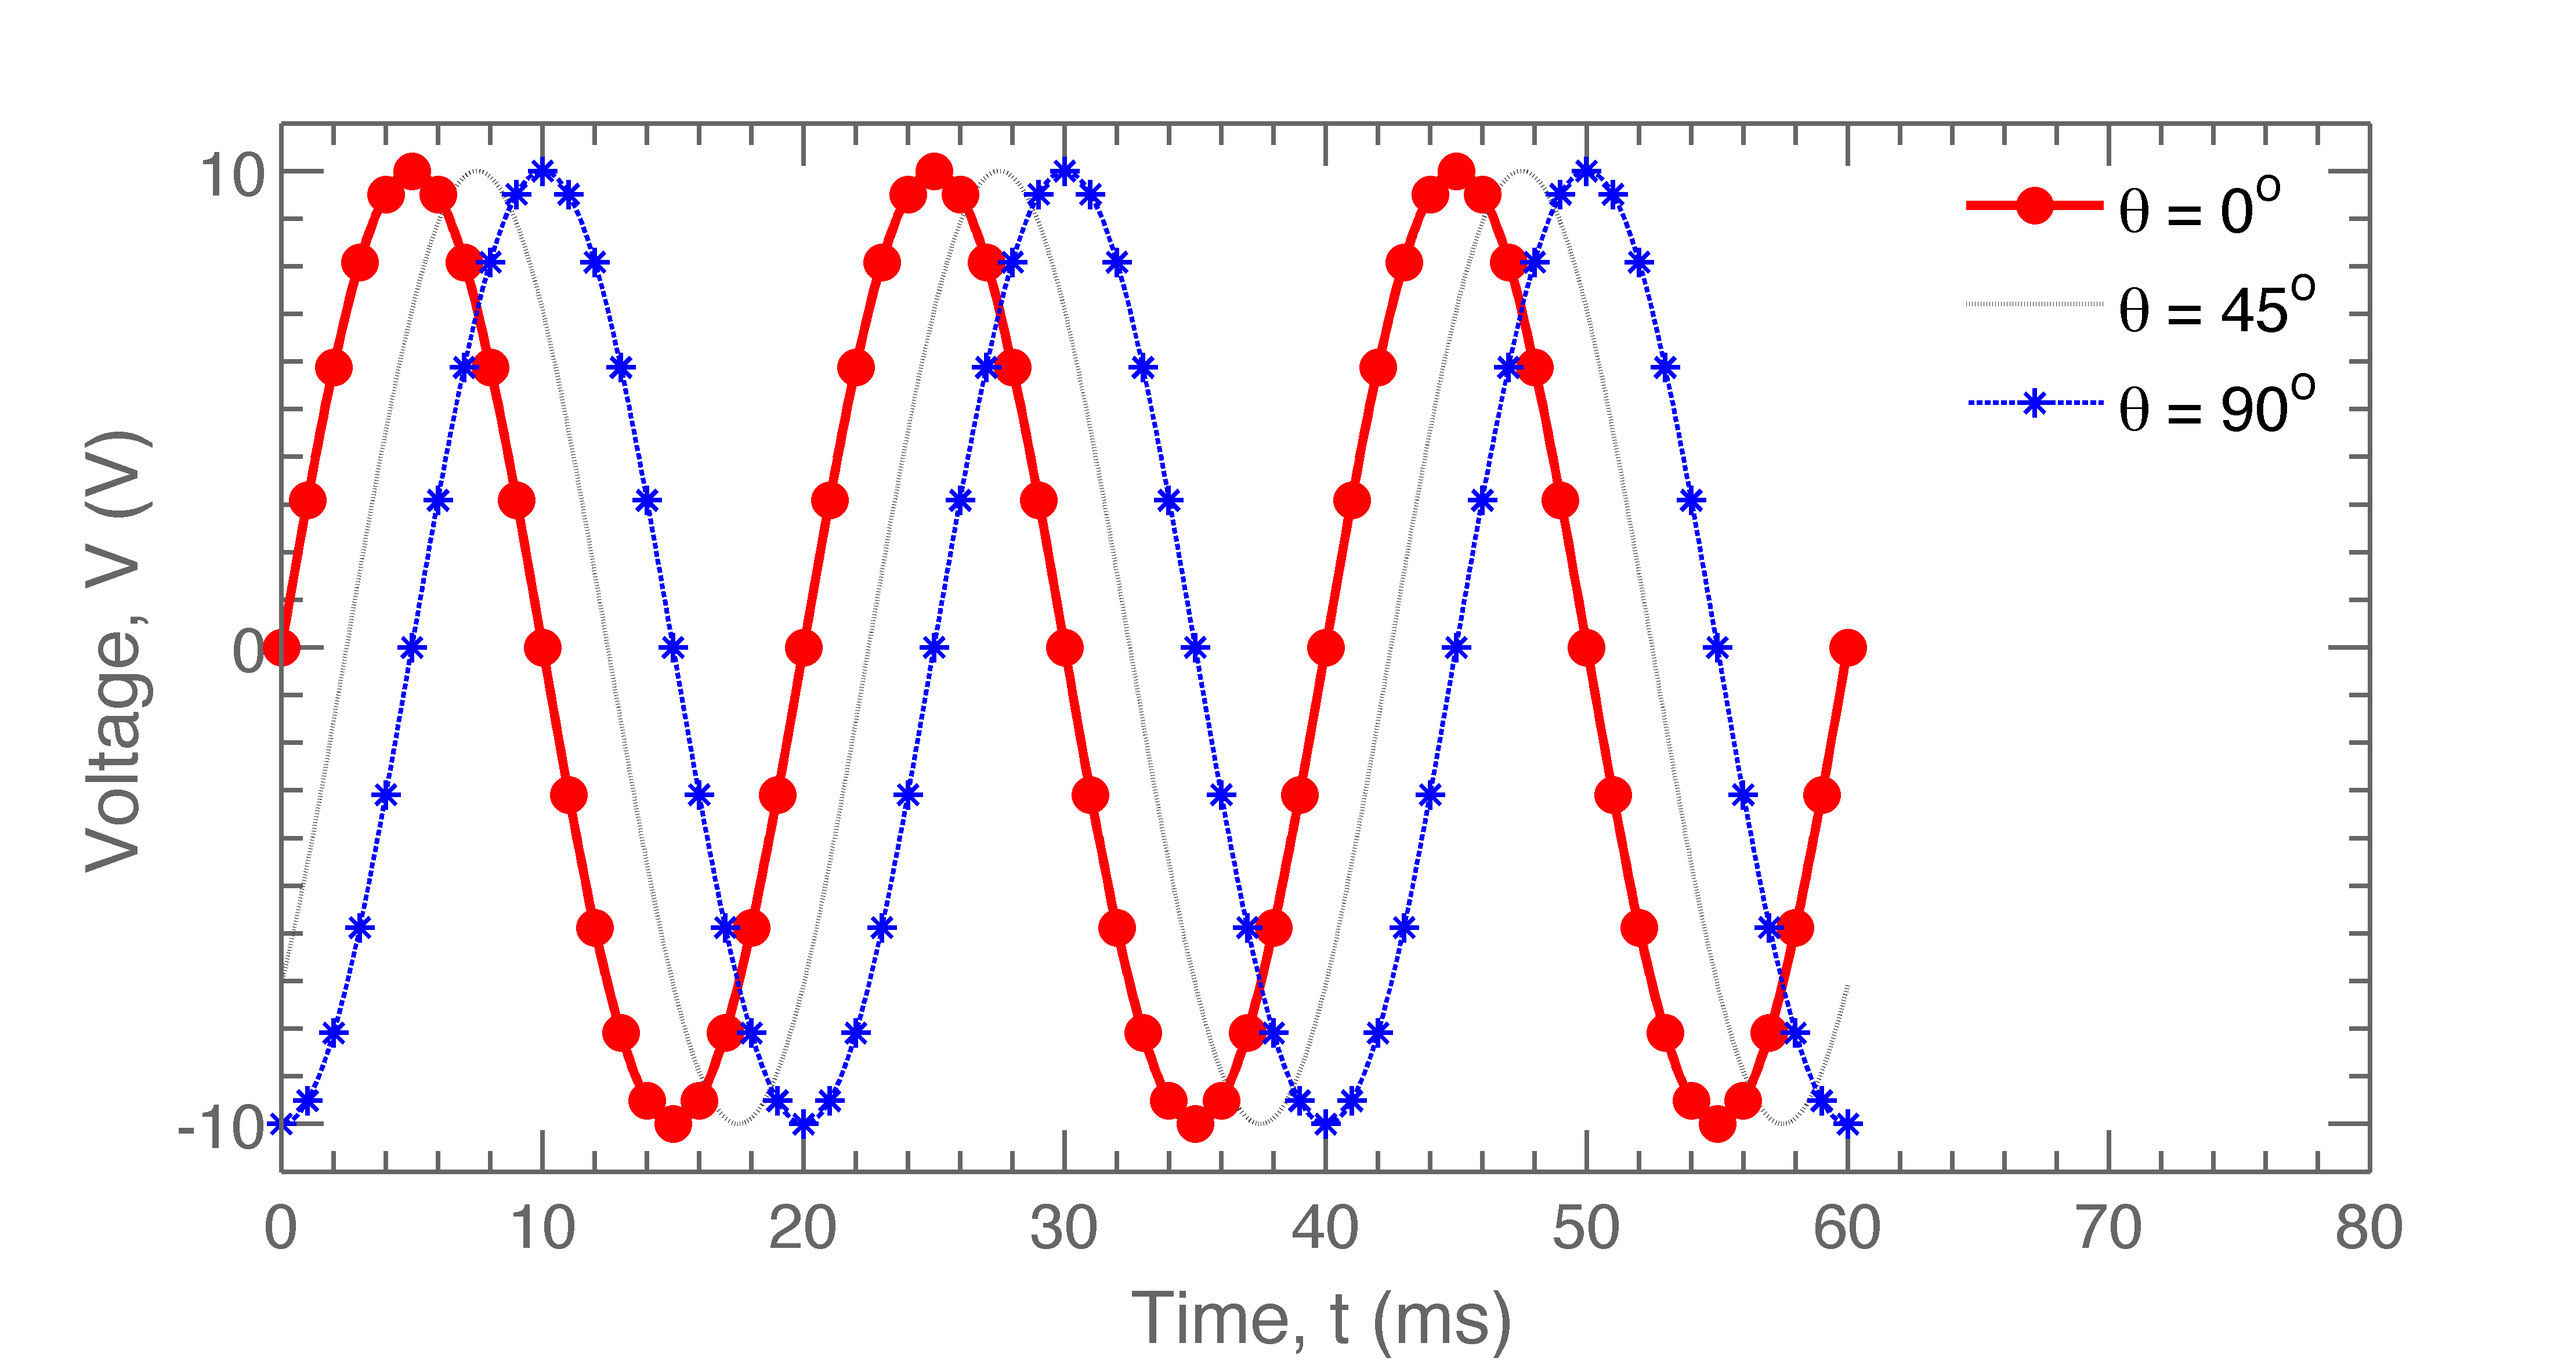
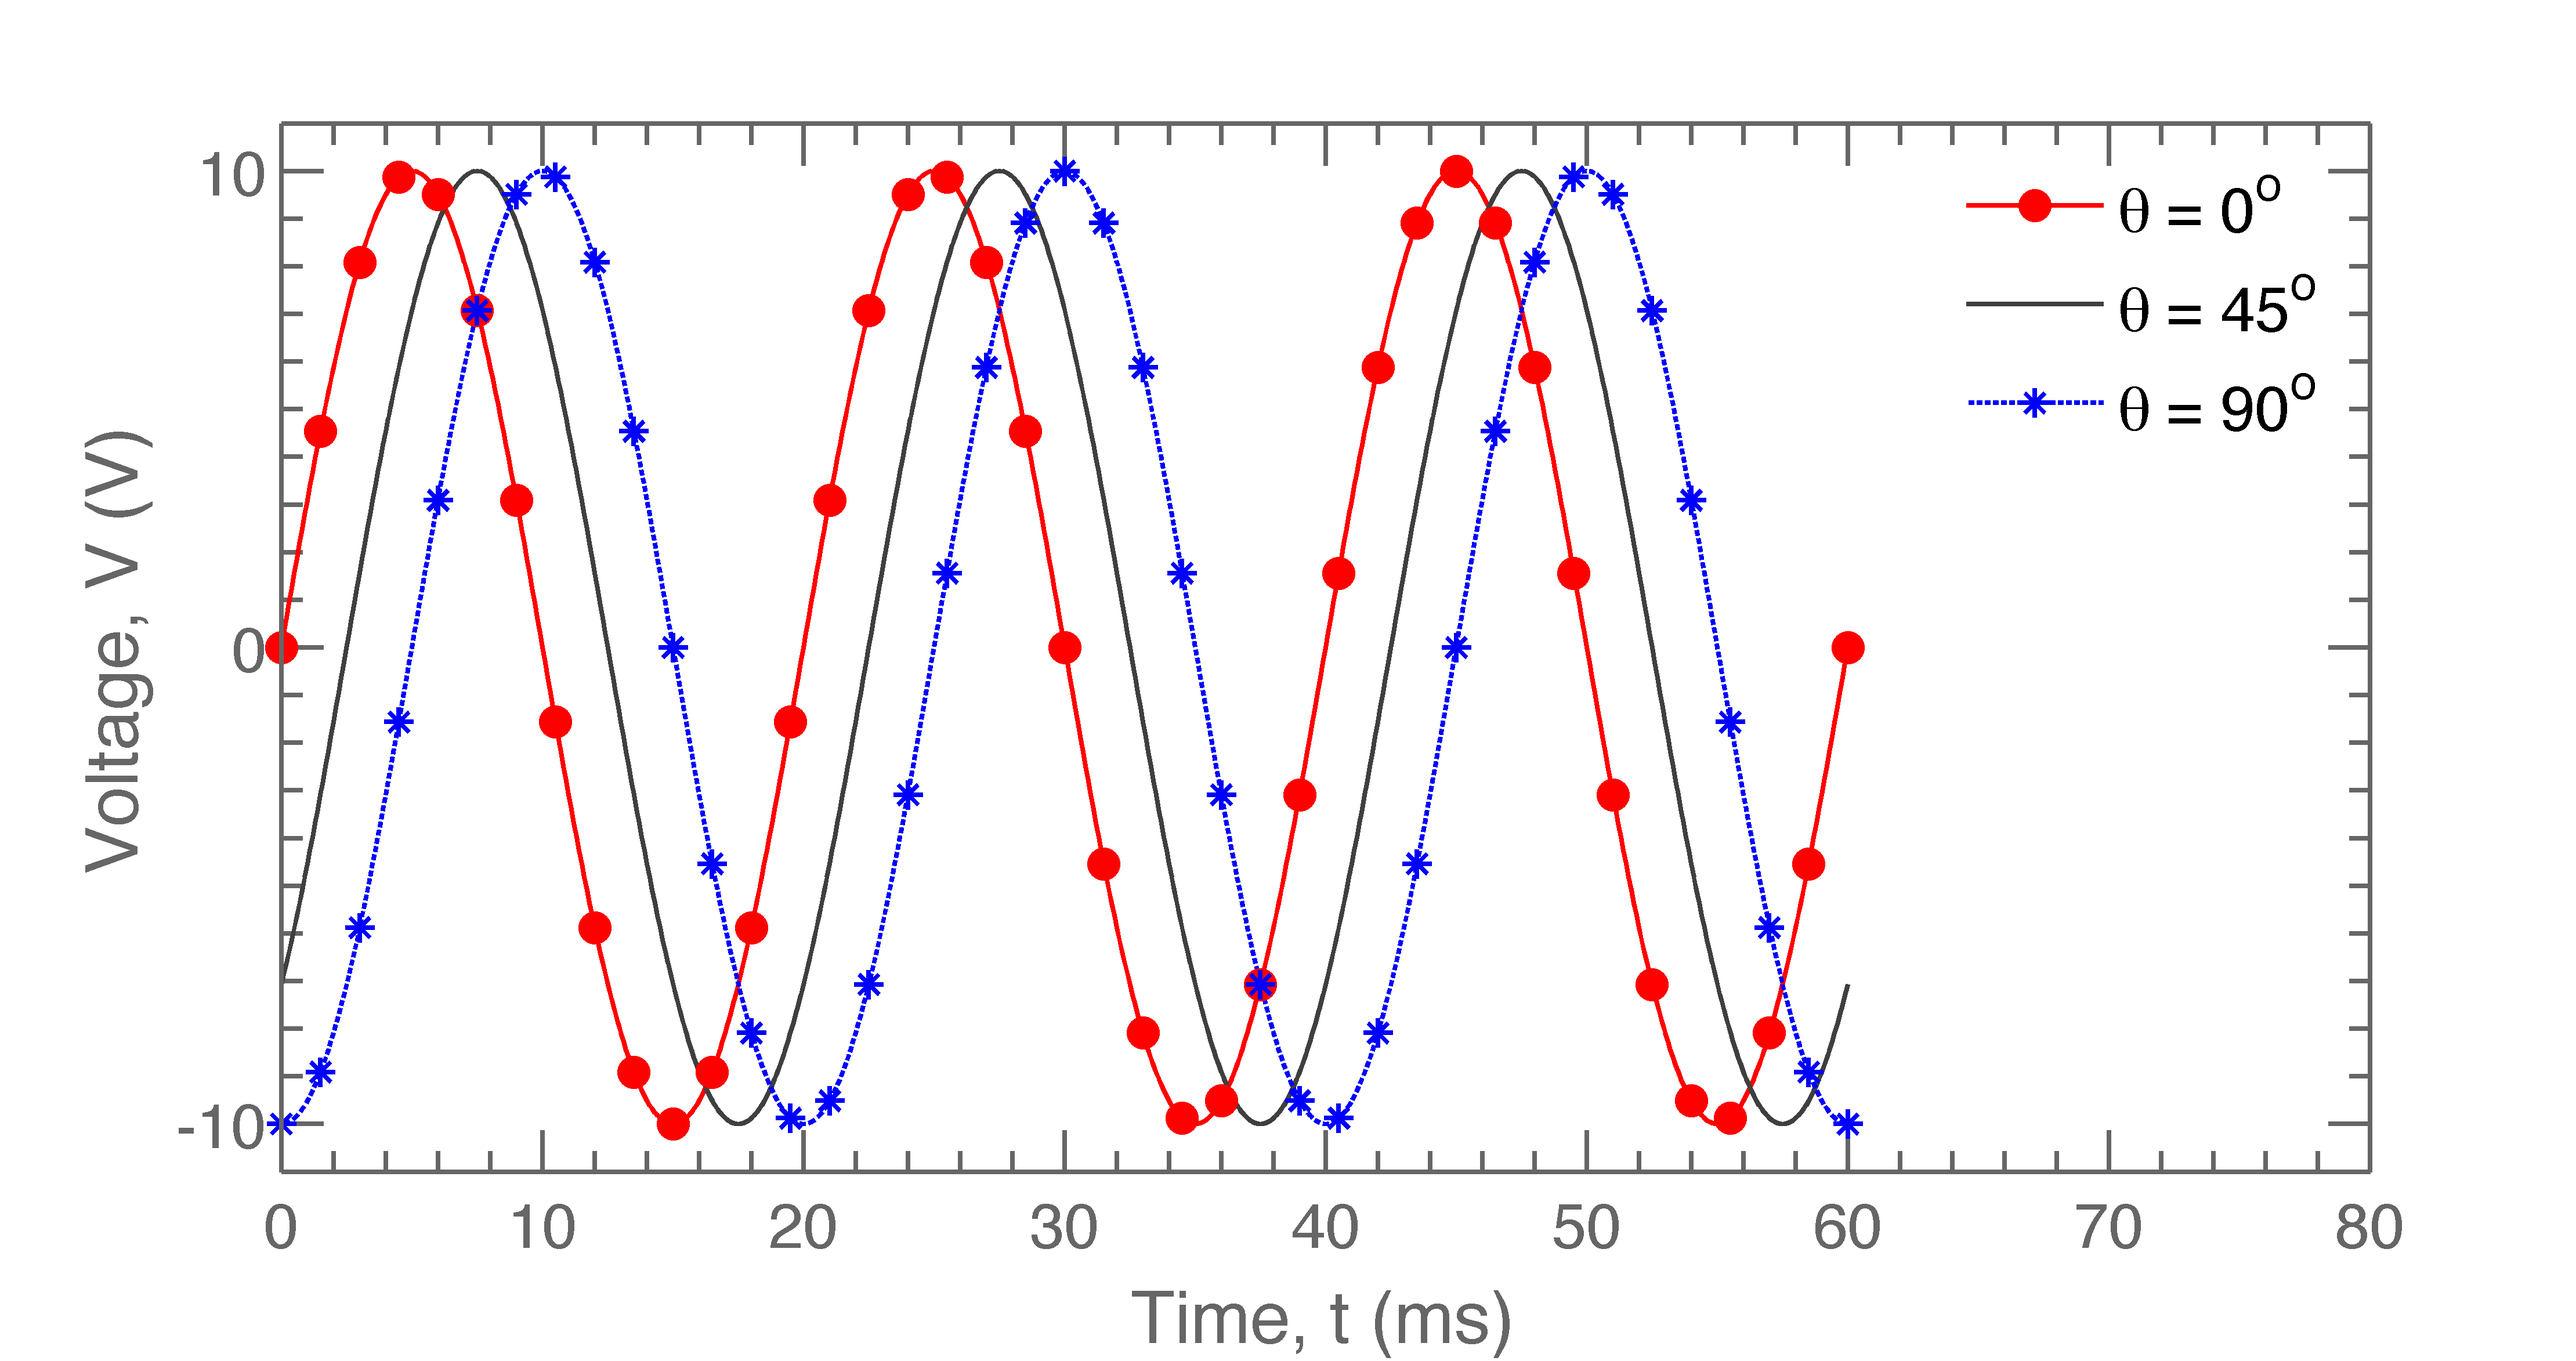
Updated documentation, tutorial. Cleaned up code a bit.

diff --git a/lib/plotPub.m b/lib/plotPub.m
@@ -1,12 +1,15 @@
 function h = plotPub(X, Y, N, opt)
 % function h = plotPub(X, Y, N, opt)
-% Publication quality plot in MATLAB
+% This function plots X{i} vs Y{i}, changes the properties of the generated 
+% figure and exports it as a publication quality image file. The resolution 
+% of the image can be chosen by the user. Supported image formats are EPS, 
+% PDF, PNG, JPEG and TIFF. The figure properties are specified by the 
+% options structure 'opt'. 
 %
 % Parameters:
 % X:   cell array of x coordinates
 % Y:   cell array of y coordinates
 % N:   number of plots to be created. N <= length(X) 
-%
 % opt: options structure:
 %   BoxDim:       vector [width, height]: size of the axes box in inches; default: [6, 2.5]
 %   FontName:     string: font name; default: 'Arial'
@@ -41,10 +44,16 @@ function h = plotPub(X, Y, N, opt)
 %   ZLabel:       Z axis label
 %   Resolution:   Resolution (dpi) for bitmapped file. Default:600.
 %   FileName:     Save? Give a file name.
+% 
+% hfig:         Figure handle (optional). Default: current figure.
+%
 %
 % Written by: K M Masum Habib (http://masumhabib.com)
 % Copyright (c) K M Masum Habib 2012-2014.
+%
 % Distributed under the BSD License.
+%
+% Version: 1.2
 %
 
 if nargin ~= 4

diff --git a/lib/setPlotProp.m b/lib/setPlotProp.m
@@ -1,6 +1,10 @@
 function h = setPlotProp(opt, hfig)
 % function h = setPlotProp(opt, hfig)
-% Publication quality plot in MATLAB
+% This function changes the properties of the figure represented by 'hfig'
+% and exports it as a publication quality image file. The resolution of 
+% the image can be chosen by the user. Supported image formats are EPS, 
+% PDF, PNG, JPEG and TIFF. The figure properties are specified by the 
+% options structure 'opt'. 
 %
 % Parameters:
 % opt: options structure:
@@ -37,11 +41,16 @@ function h = setPlotProp(opt, hfig)
 %   ZLabel:       Z axis label
 %   Resolution:   Resolution (dpi) for bitmapped file. Default:600.
 %   FileName:     Save? Give a file name.
-%   hfig:         Figure handle (optional). Default: current figure.
+% 
+% hfig:         Figure handle (optional). Default: current figure.
+%
 %
 % Written by: K M Masum Habib (http://masumhabib.com)
 % Copyright (c) K M Masum Habib 2012-2014.
+%
 % Distributed under the BSD License.
+%
+% Version: 1.2
 %
 if nargin < 1 || nargin > 2
     fprintf('Usage: function h = setPlotProp(opt, hfig)');

diff --git a/examples/plotMultiple.m b/examples/plotMultiple.m
@@ -15,22 +15,23 @@ v1 = Vm*sin(th);
 v2 = Vm*sin(th - phi);
 v3 = Vm*sin(th - phi*2);
 
-%% plot now
-plotx{1} = t*1E3; %convert time in ms and create a cell array
-ploty{1} = v1; % assign v to a cell array
-plotx{2} = t*1E3; %convert time in ms and create a cell array
-ploty{2} = v2; % assign v to a cell array
-plotx{3} = t*1E3; %convert time in ms and create a cell array
-ploty{3} = v3; % assign v to a cell array
+figure;
+plot(t*1E3, v1);
+hold on;
+plot(t*1E3, v2);
+plot(t*1E3, v3);
+hold off;
 
+%% settings
+opt = [];
 opt.XLabel = 'Time, t (ms)'; % xlabel
 opt.YLabel = 'Voltage, V (V)'; %ylabel
 opt.YTick = [-10, 0, 10];
 opt.YLim = [-11, 11];
 
 % Save? comment the following line if you do not want to save
-opt.FileName = 'plotMultiple.tiff'; 
+opt.FileName = 'plotMultiple.png'; 
 
 % create the plot
-plotPub(plotx, ploty, 3, opt);
+setPlotProp(opt);
     

diff --git a/examples/plotSimple.m b/examples/plotSimple.m
@@ -3,17 +3,28 @@
 clear all;
 addpath('../lib');
 
-% load previously generated fig file
-figFile = 'single.fig';
-open(figFile)
+%% lets plot 3 cycles of 50Hz AC voltage
+f = 50;  % frequency
+Vm = 10; % peak
+phi = 0; % phase
 
-%% plot now
+% generate the signal
+t = [0:0.0001:3/f];
+th = 2*pi*f*t;
+v = Vm*sin(th+phi);
+
+% plot it
+figure;
+plot(t*1E3, v);
+
+% change settings
+opt = [];
 opt.XLabel = 'Time, t (ms)'; % xlabel
 opt.YLabel = 'Voltage, V (V)'; %ylabel
 
 % Save? comment the following line if you do not want to save
-opt.FileName = 'plotSimple1.eps'; 
+opt.FileName = 'plotSimple1.png'; 
 
-% create the plot
+% apply the settings
 setPlotProp(opt);
     

diff --git a/examples/plotMarker.m b/examples/plotMarker.m
@@ -19,10 +19,10 @@ opt.Colors = [ % three colors for three data set
     0,      0,       1;
     ];
 
-opt.LineWidth = [2, 1, 1]; % three line widths
-opt.LineStyle = {'-', ':', '--'}; % three line styles
+opt.LineWidth = [1, 1, 1]; % three line widths
+opt.LineStyle = {'-', '-', '--'}; % three line styles
 opt.Markers = {'o', '', '*'};
-opt.MarkerSpacing = [10, 10, 10];
+opt.MarkerSpacing = [15, 15, 15];
 opt.Legend = {'\theta = 0^o', '\theta = 45^o', '\theta = 90^o'}; % legends
 
 % Save? comment the following line if you do not want to save

diff --git a/examples/plotMultiple2.m b/examples/plotMultiple2.m
@@ -38,10 +38,10 @@ opt.Colors = [ % three colors for three data set
 
 opt.LineWidth = [2, 1, 1]; % three line widths
 opt.LineStyle = {'-', ':', '--'}; % three line styles
-opt.Legend = {'\phi = 0^o', '\phi = 45^o', '\phi = 90^o'}; % legends
+opt.Legend = {'\theta = 0^o', '\theta = 45^o', '\theta = 90^o'}; % legends
 
 % Save? comment the following line if you do not want to save
-opt.FileName = 'plotMultiple2.eps'; 
+opt.FileName = 'plotMultiple2.png'; 
 
 % create the plot
 setPlotProp(opt);

diff --git a/examples/plotLineStyle.m b/examples/plotLineStyle.m
@@ -12,10 +12,10 @@ opt.XLabel = 'Time, t (ms)'; % xlabel
 opt.YLabel = 'Voltage, V (V)'; %ylabel
 opt.Colors = [0, 0, 0]; % change plot color
 opt.LineWidth = 1; % line width
-opt.LineStyle = {':'}; % line style
+opt.LineStyle = {'--'}; % line style
 
 % Save? comment the following line if you do not want to save
-opt.FileName = 'plotLineStyle.eps'; 
+opt.FileName = 'plotLineStyle.png'; 
 
 % create the plot
 setPlotProp(opt);

diff --git a/examples/plotSize.m b/examples/plotSize.m
@@ -8,14 +8,14 @@ addpath('../lib');
 figFile = 'single.fig';
 open(figFile)
 
-%% plot now
+%% change settings
 opt.XLabel = 'Time, t (ms)'; % xlabel
 opt.YLabel = 'Voltage, V (V)'; %ylabel
 opt.BoxDim = [6, 5]; %[width, height]
 
 % Save? comment the following line if you do not want to save
-opt.FileName = 'plotSize.eps'; 
+opt.FileName = 'plotSize.png'; 
 
-% create the plot
+% apply
 setPlotProp(opt);
     

diff --git a/examples/plotSimpleLog2.m b/examples/plotSimpleLog2.m
@@ -25,7 +25,7 @@ opt.YTick = [1E-3, 1E-1, 1E1, 1E3]; %[tick1, tick2, .. ]
 opt.YGrid = 'on'; % 'on' or 'off'
 
 % Save? comment the following line if you do not want to save
-opt.FileName = 'plotSimpleLog2.eps'; 
+opt.FileName = 'plotSimpleLog2.png'; 
 
 % create the plot
 plotPub(plotx, ploty, 1, opt);

diff --git a/examples/plotSimpleLogLog.m b/examples/plotSimpleLogLog.m
@@ -28,7 +28,7 @@ opt.YGrid = 'on'; % 'on' or 'off'
 opt.XGrid = 'on'; % 'on' or 'off'
 
 % Save? comment the following line if you do not want to save
-opt.FileName = 'plotSimpleLogLog.eps'; 
+opt.FileName = 'plotSimpleLogLog.png'; 
 
 % create the plot
 setPlotProp(opt);

diff --git a/README.md b/README.md
@@ -1,20 +1,42 @@
-plotPub
+PlotPub
 =======
 
 <h4>Publication quality graphs in MATLAB.</h4>
 
-MATLAB is an excellent tool. It is equally popular among students, researchers and professionals. If you use MATLAB for your project/research, you probably know that it is not easy to create publication quality graphs (PQGs) using MATLAB. You will have to call a billion functions to create a decent plot, fix its height and width, set fonts and font sizes, fix line width and color etc. There are some nice<a href="http://blogs.mathworks.com/loren/2007/12/11/making-pretty-graphs/">tutorials</a> and <a href="http://www.mathworks.com/matlabcentral/fileexchange/31668-publication-quality-plots">codes</a> available for creating PQGs. However, most of those do not meet the level of reusability and flexibility I want. 
+MATLAB is an excellent tool. It is equally popular among students, researchers and professors. If you use MATLAB for your project/research, you probably know that it is not easy to create publication quality graphs (PQGs) using MATLAB. You will have to call a billion <code>set</code> and <code>get</code> functions to create a decent plot with desired height, width, fonts, line width, color etc. Here, I present PlotPub which is a set of MATLAB functions that allows you to modify almost all aspects of MATLAB figures and export PQGs using one function call and a simple structure.
 
-<h4> Code </h4>
-The main code is just one function, plotPub. I have also prepared some example codes. These codes produce publication quality <code>eps</code> files. <code>EPS</code> is a vector graphics format, compatible with LaTex and can be modified using vector graphics editors such as <a href="http://inkscape.org/">Inkscape</a> and <a href="http://www.adobe.com/products/illustrator.html">Adobe Illustrator</a>.
+<h4>Features of v1.2</h4>
+<hr />
+<ul>
+	<li>Generate beautiful, publication quality graphs from instantly generated MATLAB figures or saved MATLAB fig files.</li>
+	<li>Export figures in EPS, PDF, JPEG, PNG and TIFF with adjustable resolution.</li>
+	<li>Set marker spacing.</li>
+	<li>Change almost all aspects of a figure using simple and intuitive code.</li>
+	<li>A lot of example codes. A decent tutorial and good documentation.</li>
+	<li>Tested in Ubuntu and OSX with MATLAB 7.10. But it should work in other operating systems with other versions of MATLAB.</li>
+	<li>Distributed under BSD license which allows you to do anything you like.</li>
+</ul>
 
-To fix some issues with MATLAB post script line styles, I have used fixPSlinestyle function availabe in <a href="http://www.mathworks.com/matlabcentral/fileexchange/17928-fixpslinestyle">MATLAB Central</a>.
+<h4> Compatibility with v1.1</h4>
+<hr />
+In version 1.2, I introduced a new function <code>setPlotProp</code> which is superior to the old function <code>plotPub</code>. But for backward compatibility, <code>plotPub</code> is still available in v1.2. Therefore, all of your previous codes should work with v1.2.
 
-I have tested these codes under Ubuntu 12.04 in MATLAB 7.10. But it should work under Windows and Mac OSX with other MATLAB versions as well.
-
-All the codes provided here are distributed under BSD license which basically allows you to do anything you like. You can use, modify and/or redistribute it for free or for some cash and become a millionaire :D.
+<h4>Downloads</h4>
+<hr />
+<ul>
+	<li><a href="https://github.com/masumhabib/plotPub/archive/master.zip">Compressed package</a></li>
+	<li><a href="https://github.com/masumhabib/plotPub">GitHub repository</a></li>
+</ul>
 
 <h4>Installation</h4>
-In order to use the <code>plotPub</code> function you have to copy <code>plotPub.m</code> and <code>fixPSlinestyle.m</code> files to either your MATLAB path or your current working folder.
+<hr />
+Download and extract the zip file from the link given above. Install PlotPub using any one of the three possible ways: (1) copy all the *.m files inside the <code>lib</code> folder to either your MATLAB path or (2) copy those files to your current project folder or (3) put plotPub-master in any convenient folder and add the following line in your MATLAB code:
 
-For more informaion and see <a href="http://masumhabib.com/publication-quality-graphs-matlab/">the project page</a>.
+[matlab]
+addpath('D:/MATLAB/plotPub-master');
+[/matlab]
+where, I assume that you put plotPub-master in <code>D:/MATLAB</code> folder. The sample codes can be found inside the <code>examples</code> folder.
+
+<h4>Installation</h4>
+<hr />
+Please see the <a href="http://masumhabib.com/publication-quality-graphs-matlab">project page</a>.
